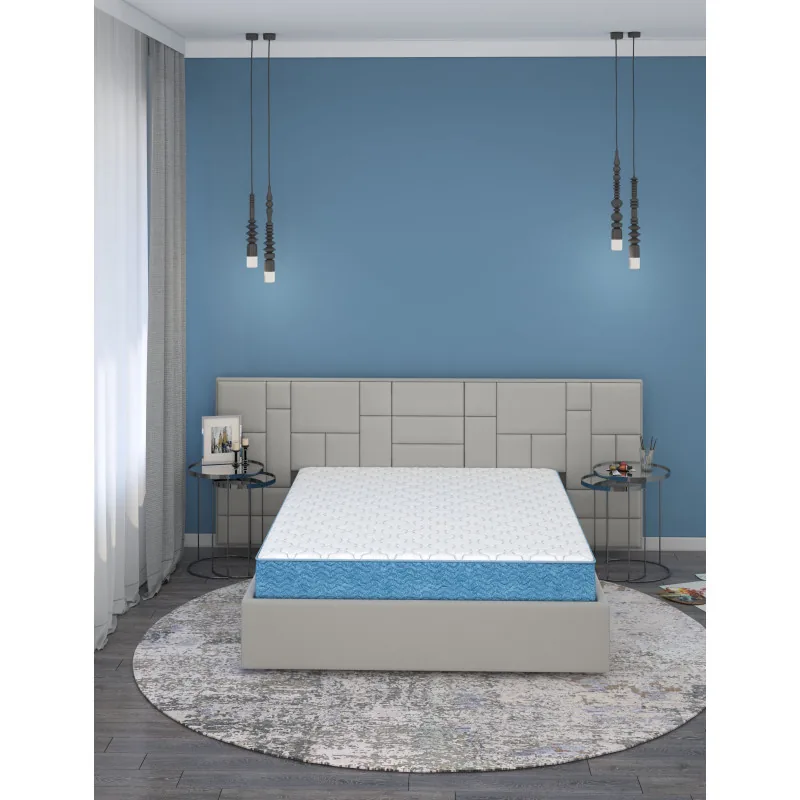
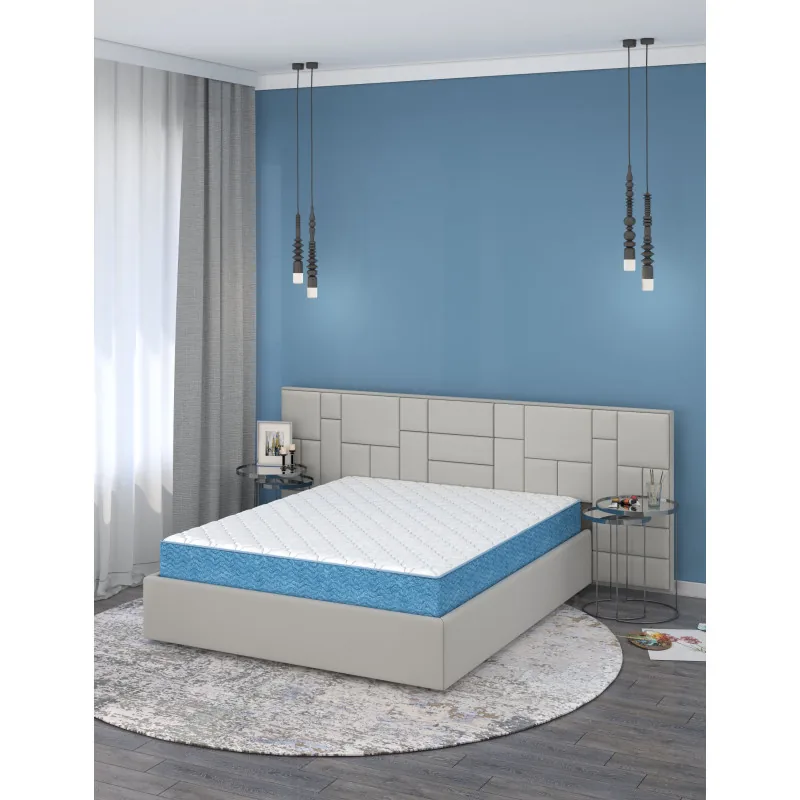
Use new Azalia photos in hero and order summary
Claude-Session: https://claude.ai/code/session_01K7Mbsi3jLTRAjRqhYJ22xE

diff --git a/styles.css b/styles.css
@@ -149,15 +149,10 @@ input.is-invalid { border-color: #e04848; }
   position: sticky; top: 88px;
   background: #fff; border-radius: var(--radius); padding: 24px; box-shadow: var(--shadow);
 }
-.summary__preview { background: var(--tint); border-radius: 12px; height: 200px; display: grid; place-items: center; align-content: center; gap: 8px; }
-.bed {
-  display: grid; place-items: center;
-  background: repeating-linear-gradient(90deg, #fff 0 14px, #f0f5ff 14px 15px);
-  border: 2px solid #b8c8e6; border-radius: 8px;
-  font-weight: 800; font-size: 13px; color: var(--navy);
-  transition: width .3s ease, height .3s ease;
-}
-.summary__caption { margin: 0; font-size: 13px; color: var(--muted); font-weight: 600; }
+.summary__preview { background: #fff; border: 1px solid var(--line); border-radius: 12px; padding: 20px 16px 14px; display: grid; justify-items: center; gap: 10px; }
+.summary__preview img { width: 100%; height: auto; }
+.summary__caption { margin: 0; font-size: 14px; color: var(--muted); font-weight: 600; }
+.summary__caption b { color: var(--navy); }
 .summary__list { margin: 18px 0; display: grid; gap: 8px; }
 .summary__list div { display: flex; justify-content: space-between; gap: 12px; font-size: 15px; }
 .summary__list dt { color: var(--muted); }

diff --git a/index.html b/index.html
@@ -49,7 +49,7 @@
           </ul>
         </div>
         <div class="hero__visual">
-          <img src="assets/azalia-room.webp" width="800" height="800" alt="Матрац «Азалія» на ліжку в спальні" fetchpriority="high">
+          <img src="assets/azalia-room.webp" width="800" height="800" alt="Матрац «Азалія» на двоспальному ліжку в спальні" fetchpriority="high">
         </div>
       </div>
     </section>
@@ -109,8 +109,8 @@
 
           <aside class="summary" aria-live="polite">
             <div class="summary__preview">
-              <div class="bed" id="bedPreview"><span id="bedLabel">160 × 200</span></div>
-              <p class="summary__caption" id="bedCaption">Двоспальний</p>
+              <img src="assets/azalia-product.webp" width="741" height="316" alt="Матрац «Азалія»">
+              <p class="summary__caption"><b id="bedLabel">160 × 200 см</b> · <span id="bedCaption">Двоспальний</span></p>
             </div>
             <dl class="summary__list">
               <div><dt>Модель</dt><dd id="sumModel">—</dd></div>

diff --git a/script.js b/script.js
@@ -50,12 +50,7 @@
     $("qty").textContent = state.qty;
     $("price").textContent = fmt(s.price * state.qty);
 
-    // Превʼю: пропорційний прямокутник
-    const scale = 150 / 220;
-    const bed = $("bedPreview");
-    bed.style.width = `${Math.round(s.w * scale)}px`;
-    bed.style.height = `${Math.round(s.l * scale * 0.85)}px`;
-    $("bedLabel").textContent = sizeLabel(s);
+    $("bedLabel").textContent = `${sizeLabel(s)} см`;
     $("bedCaption").textContent = sizeCategory(s.w);
   }
 
